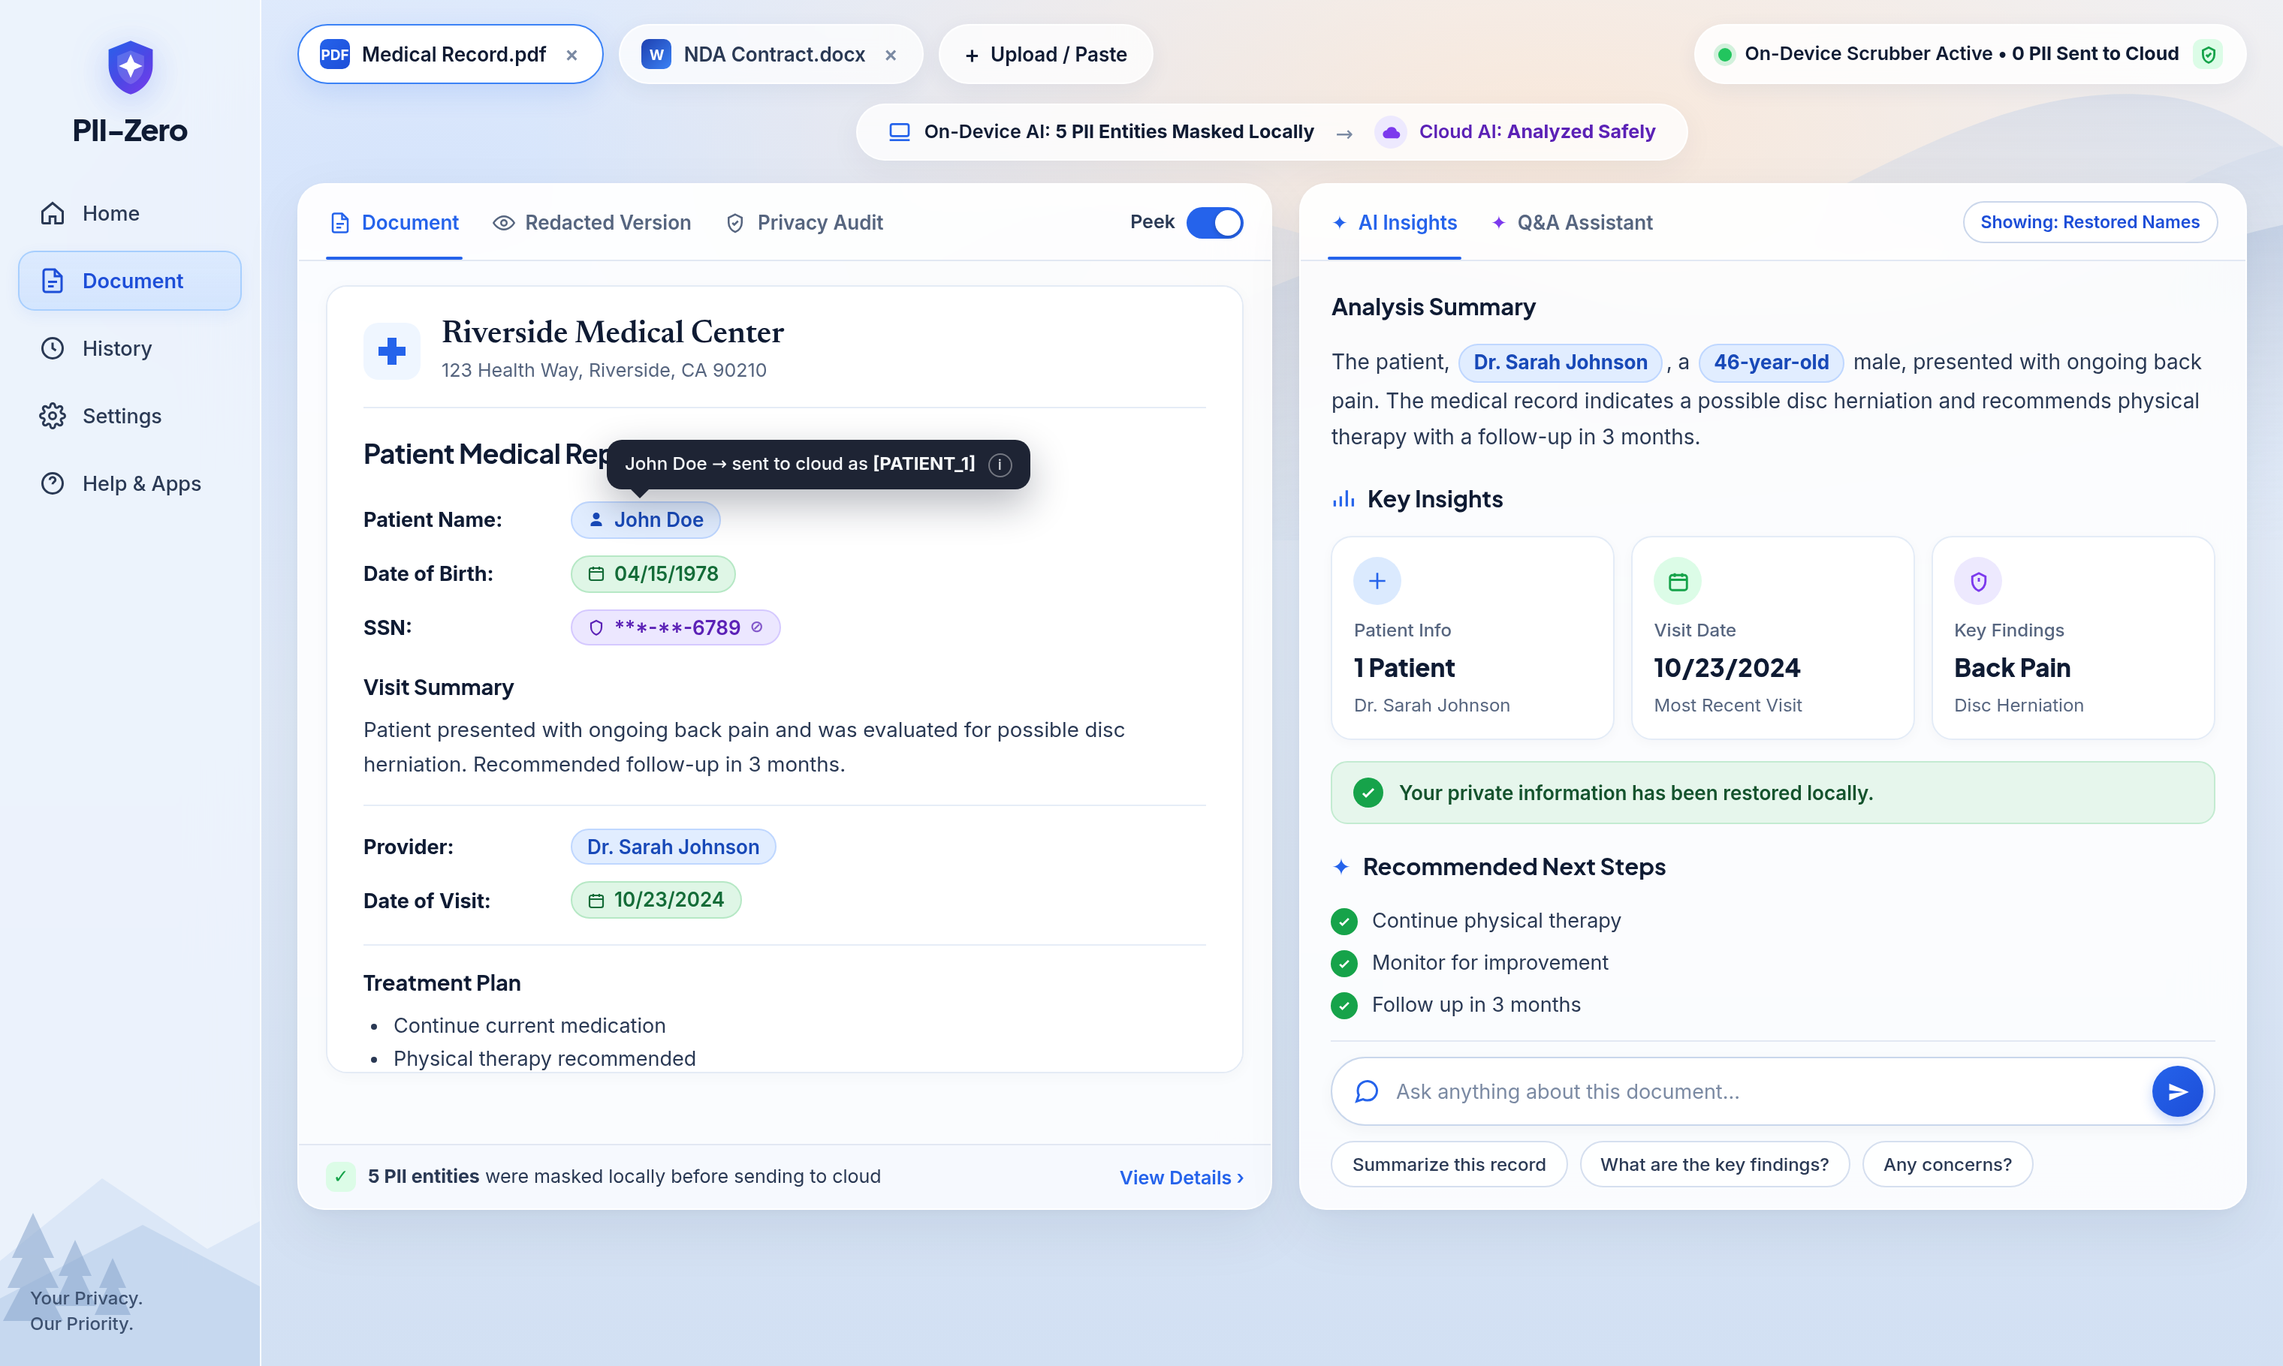
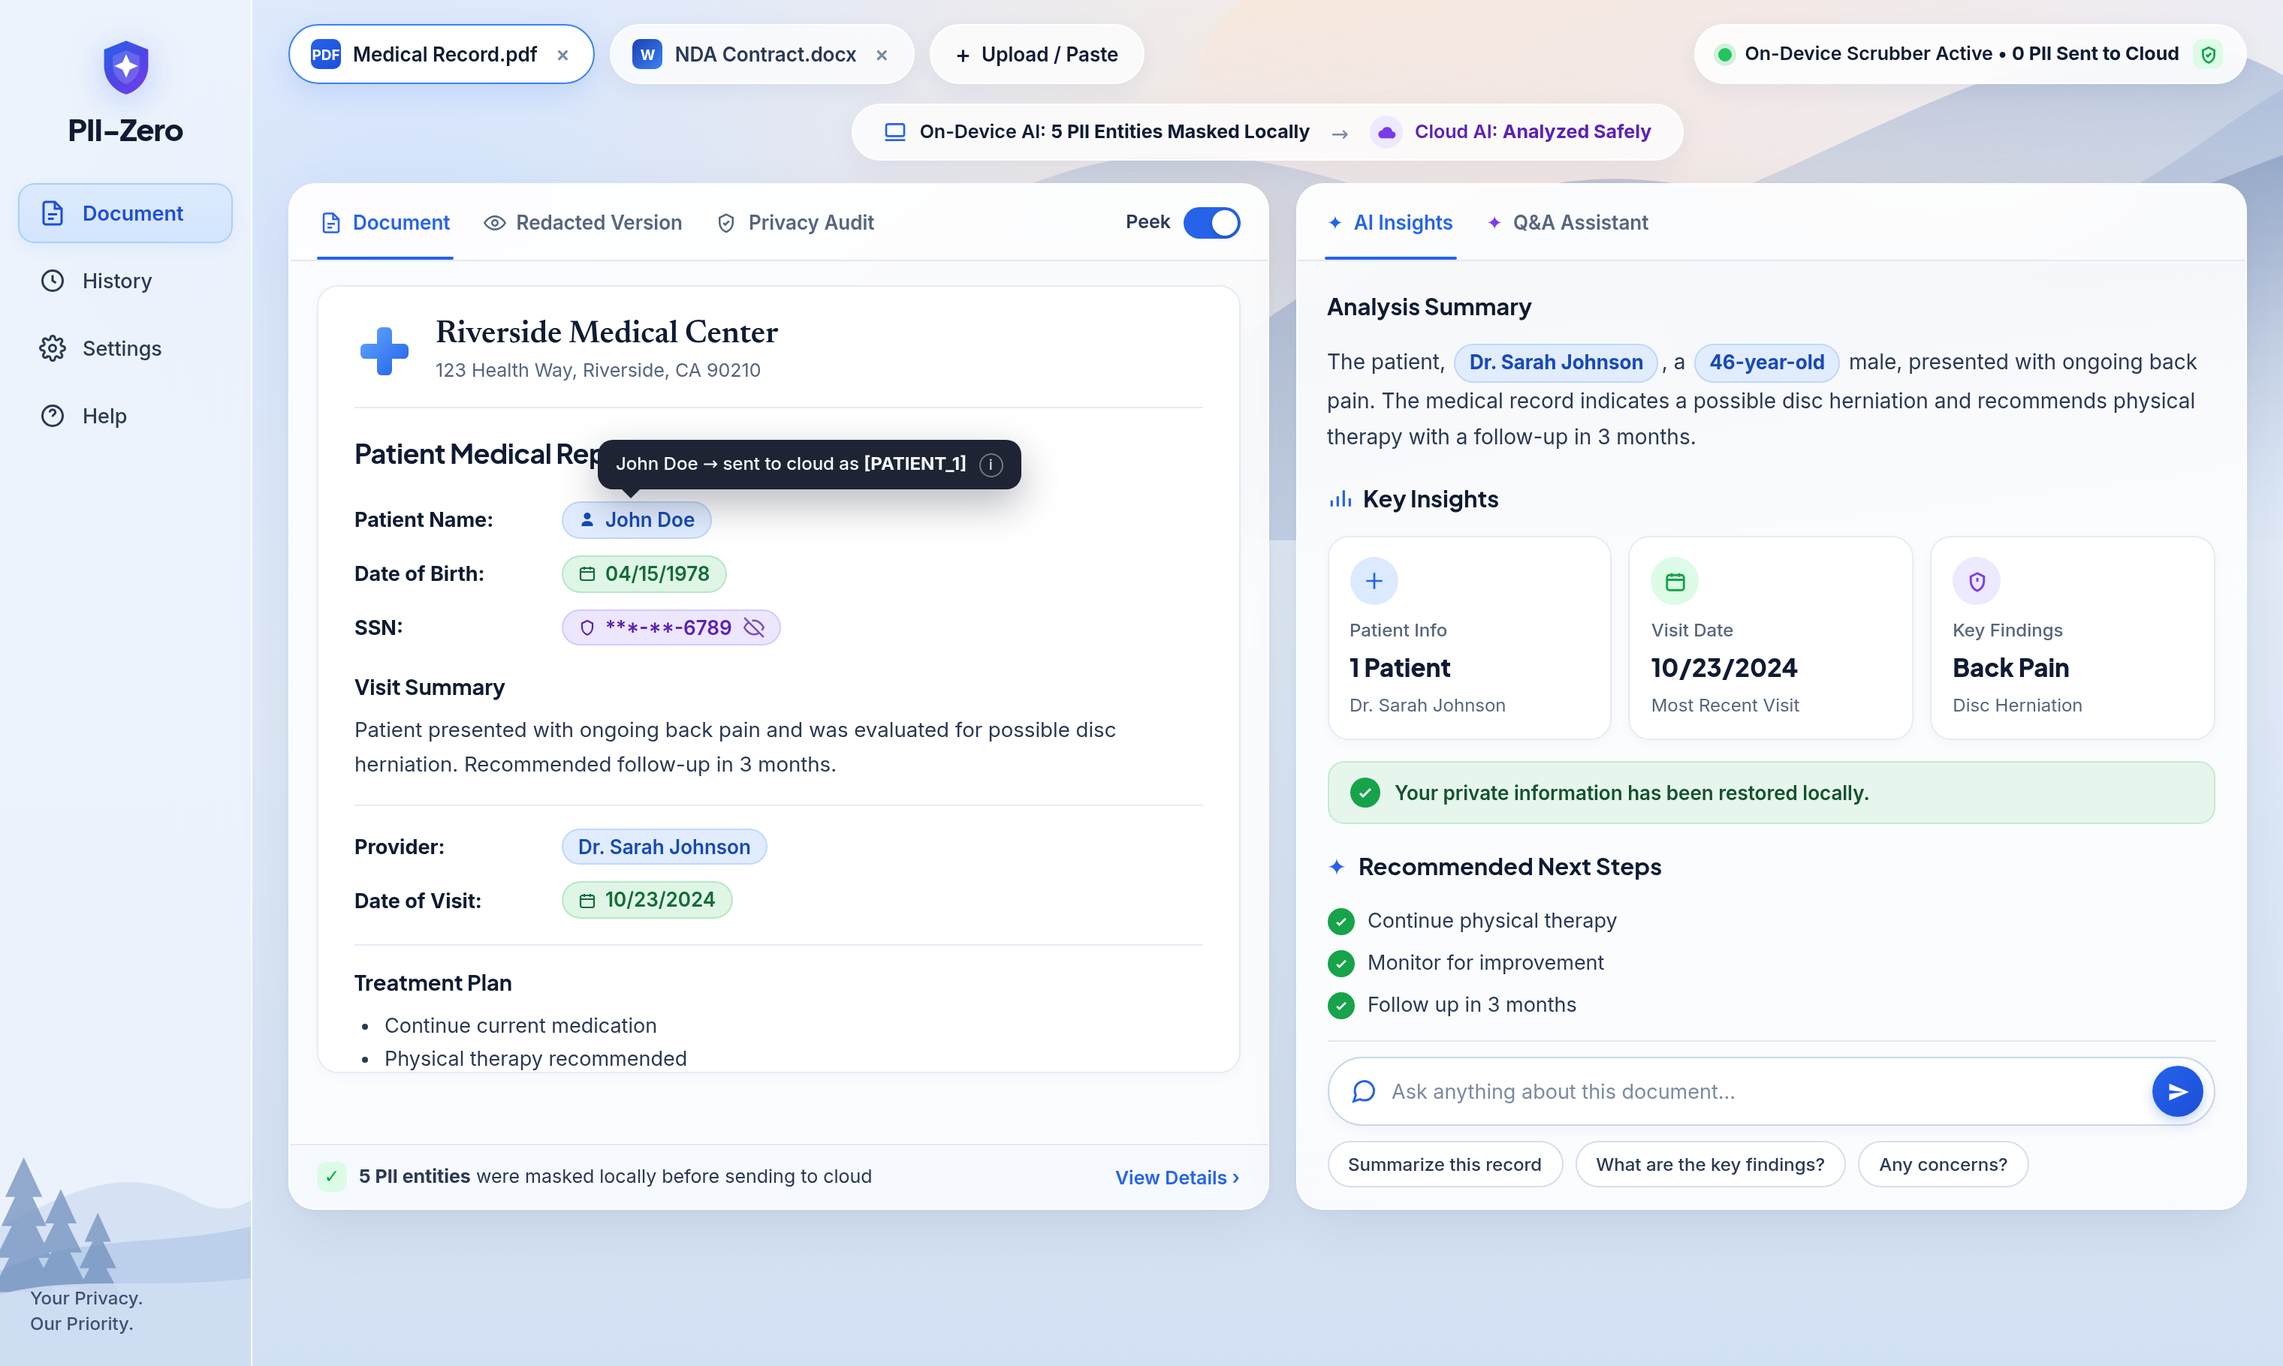
Keep 3-column mountain-glass workspace intact on Z Fold7 & disable HTML caching

diff --git a/src/App.tsx b/src/App.tsx
@@ -1027,9 +1027,20 @@ export const App: React.FC = () => {
             )}
             <span>{shownText}</span>
             {entry.category === "SSN" && (
-              <span style={{ opacity: 0.72, fontSize: "11px" }} aria-hidden="true">
-                ⊘
-              </span>
+              <svg
+                width="14"
+                height="14"
+                viewBox="0 0 24 24"
+                fill="none"
+                stroke="currentColor"
+                strokeWidth="2.1"
+                style={{ opacity: 0.78, marginLeft: "2px" }}
+                aria-hidden="true"
+              >
+                <path d="M17.94 17.94A10.07 10.07 0 0 1 12 20c-7 0-11-8-11-8a18.45 18.45 0 0 1 5.06-5.94" />
+                <path d="M9.9 4.24A9.12 9.12 0 0 1 12 4c7 0 11 8 11 8a18.5 18.5 0 0 1-2.16 3.19" />
+                <path d="M1 1l22 22" />
+              </svg>
             )}
           </span>
         </span>
@@ -1198,18 +1209,25 @@ export const App: React.FC = () => {
       <div className={mode === "redacted" ? "doc-paper compact" : "doc-paper"}>
         {currentDocMeta.showInstHeader && (
           <div className="doc-inst-header">
-            <div className="med-cross-icon" aria-hidden="true">
-              {currentDocMeta.isLegal ? (
+            {currentDocMeta.isLegal ? (
+              <div className="med-cross-icon" aria-hidden="true">
                 <svg width="22" height="22" viewBox="0 0 24 24" fill="none" stroke="currentColor" strokeWidth="2.1">
                   <path d="M14 2H6a2 2 0 0 0-2 2v16a2 2 0 0 0 2 2h12a2 2 0 0 0 2-2V8z" />
                   <path d="M14 2v6h6M9 13h6M9 17h4" />
                 </svg>
-              ) : (
-                <svg width="24" height="24" viewBox="0 0 24 24" fill="currentColor">
-                  <path d="M9 3h6v6h6v6h-6v6H9v-6H3V9h6V3z" />
-                </svg>
-              )}
-            </div>
+              </div>
+            ) : (
+              <svg width="40" height="40" viewBox="0 0 40 40" fill="none" aria-hidden="true" style={{ flexShrink: 0 }}>
+                <defs>
+                  <linearGradient id="medCrossBlue" x1="6" y1="6" x2="34" y2="34" gradientUnits="userSpaceOnUse">
+                    <stop offset="0%" stopColor="#60a5fa" />
+                    <stop offset="100%" stopColor="#2563eb" />
+                  </linearGradient>
+                </defs>
+                <rect x="15" y="4" width="10" height="32" rx="3.2" fill="url(#medCrossBlue)" />
+                <rect x="4" y="15" width="32" height="10" rx="3.2" fill="url(#medCrossBlue)" />
+              </svg>
+            )}
             <div>
               <div className="doc-inst-name">{currentDocMeta.instTitle}</div>
               <div className="doc-inst-sub">{currentDocMeta.instSub}</div>
@@ -1265,32 +1283,39 @@ export const App: React.FC = () => {
     <>
       {/* Smooth Atmospheric Mountain-Dawn SVG Backdrop */}
       <div className="mountain-backdrop" aria-hidden="true">
-        <svg viewBox="0 0 1440 420" preserveAspectRatio="none">
+        <svg viewBox="0 0 1600 440" preserveAspectRatio="none">
           <defs>
-            <linearGradient id="mtnBack" x1="0" y1="0" x2="0" y2="1">
-              <stop offset="0%" stopColor="#bdcde6" stopOpacity="0.52" />
-              <stop offset="100%" stopColor="#e4edf9" stopOpacity="0.04" />
+            <linearGradient id="dawnGlow" x1="0.45" y1="0" x2="0.95" y2="0.85">
+              <stop offset="0%" stopColor="#fde6d2" stopOpacity="0.88" />
+              <stop offset="55%" stopColor="#e8e6f6" stopOpacity="0.45" />
+              <stop offset="100%" stopColor="#dce8f8" stopOpacity="0" />
+            </linearGradient>
+            <linearGradient id="mtnFar" x1="0" y1="0" x2="0" y2="1">
+              <stop offset="0%" stopColor="#8da5cc" stopOpacity="0.68" />
+              <stop offset="100%" stopColor="#dbe6f6" stopOpacity="0.1" />
             </linearGradient>
             <linearGradient id="mtnMid" x1="0" y1="0" x2="1" y2="1">
-              <stop offset="0%" stopColor="#9eb6da" stopOpacity="0.48" />
+              <stop offset="0%" stopColor="#6984b3" stopOpacity="0.72" />
+              <stop offset="65%" stopColor="#93abd2" stopOpacity="0.42" />
               <stop offset="100%" stopColor="#d7e4f5" stopOpacity="0.06" />
             </linearGradient>
-            <linearGradient id="mtnFront" x1="0" y1="0" x2="0" y2="1">
-              <stop offset="0%" stopColor="#86a3ce" stopOpacity="0.38" />
-              <stop offset="100%" stopColor="#d3e0f3" stopOpacity="0.05" />
+            <linearGradient id="mtnNear" x1="0" y1="0" x2="0" y2="1">
+              <stop offset="0%" stopColor="#5673a4" stopOpacity="0.58" />
+              <stop offset="100%" stopColor="#cad9ef" stopOpacity="0.08" />
             </linearGradient>
           </defs>
+          <ellipse cx="1160" cy="65" rx="460" ry="175" fill="url(#dawnGlow)" />
           <path
-            d="M120,420 C290,300 410,165 560,158 C705,152 810,255 950,210 C1085,166 1185,62 1315,74 C1375,80 1415,120 1440,145 L1440,420 Z"
-            fill="url(#mtnBack)"
+            d="M160,440 C340,295 510,130 675,126 C835,122 930,228 1085,172 C1225,120 1355,24 1495,38 C1550,44 1580,72 1600,92 L1600,440 Z"
+            fill="url(#mtnFar)"
           />
           <path
-            d="M380,420 C535,320 665,195 805,192 C935,190 1015,278 1135,246 C1245,216 1345,112 1440,108 L1440,420 Z"
+            d="M520,440 C695,308 855,154 1015,146 C1155,139 1245,232 1375,186 C1475,150 1545,68 1600,58 L1600,440 Z"
             fill="url(#mtnMid)"
           />
           <path
-            d="M690,420 C835,338 960,245 1095,248 C1225,250 1335,185 1440,168 L1440,420 Z"
-            fill="url(#mtnFront)"
+            d="M840,440 C995,332 1145,208 1295,204 C1420,200 1515,138 1600,114 L1600,440 Z"
+            fill="url(#mtnNear)"
           />
         </svg>
       </div>
@@ -1302,24 +1327,14 @@ export const App: React.FC = () => {
             <button
               type="button"
               className="brand-lockup"
-              onClick={() => setSidebarNav("document")}
+              title="Toggle Workspace / Overview"
+              onClick={() => setSidebarNav((prev) => (prev === "document" ? "home" : "document"))}
             >
               <ShieldSparkleLogo />
               <span className="brand-wordmark">PII-Zero</span>
             </button>
 
             <nav className="sidebar-nav">
-              <button
-                type="button"
-                className={"sidebar-link " + (sidebarNav === "home" ? "active" : "")}
-                onClick={() => setSidebarNav("home")}
-              >
-                <svg viewBox="0 0 24 24" fill="none" stroke="currentColor" strokeWidth="2">
-                  <path d="M3 10.5L12 3l9 7.5V20a1 1 0 0 1-1 1h-5.5v-6h-5v6H4a1 1 0 0 1-1-1v-9.5z" />
-                </svg>
-                <span>Home</span>
-              </button>
-
               <button
                 type="button"
                 className={"sidebar-link " + (sidebarNav === "document" ? "active" : "")}
@@ -1351,7 +1366,7 @@ export const App: React.FC = () => {
               >
                 <svg viewBox="0 0 24 24" fill="none" stroke="currentColor" strokeWidth="2">
                   <circle cx="12" cy="12" r="3" />
-                  <path d="M19.4 15a1.7 1.7 0 0 0 .3 1.8l.1.1a2 2 0 1 1-2.8 2.8l-.1-.1a1.7 1.7 0 0 0-1.8-.3 1.7 1.7 0 0 0-1 1.5V21a2 2 0 1 1-4 0v-.2a1.7 1.7 0 0 0-1-1.5 1.7 1.7 0 0 0-1.8.3l-.1.1a2 2 0 1 1-2.8-2.8l.1-.1a1.7 1.7 0 0 0 .3-1.8 1.7 1.7 0 0 0-1.5-1H3a2 2 0 1 1 0-4h.2a1.7 1.7 0 0 0 1.5-1 1.7 1.7 0 0 0-.3-1.8l-.1-.1a2 2 0 1 1 2.8-2.8l.1.1a1.7 1.7 0 0 0 1.8.3h.1a1.7 1.7 0 0 0 1-1.5V3a2 2 0 1 1 4 0v.2a1.7 1.7 0 0 0 1 1.5 1.7 1.7 0 0 0 1.8-.3l.1-.1a2 2 0 1 1 2.8 2.8l-.1.1a1.7 1.7 0 0 0-.3 1.8v.1a1.7 1.7 0 0 0 1.5 1H21a2 2 0 1 1 0 4h-.2a1.7 1.7 0 0 0-1.4 1z" />
+                  <path d="M19.4 15a1.7 1.7 0 0 0 .3 1.8l.1.1a2 2 0 1 1-2.8 2.8l-.1-.1a1.7 1.7 0 0 0-1.8-.3 1.7 1.7 0 0 0-1 1.5V21a2 2 0 1 1-4 0v-.2a1.7 1.7 0 0 0-1-1.5 1.7 1.7 0 0 0-1.8.3l-.1-.1a2 2 0 1 1-2.8-2.8l.1-.1a1.7 1.7 0 0 0 .3-1.8 1.7 1.7 0 0 0-1.5-1H3a2 2 0 1 1 0-4h.2a1.7 1.7 0 0 0 1.5-1 1.7 1.7 0 0 0-.3-1.8l-.1-.1a2 2 0 1 1 2.8-2.8l.1.1a1.7 1.7 0 0 0 1.8.3h.1a1.7 1.7 0 0 0 1-1.5V3a2 2 0 1 1 4 0v.2a1.7 1.7 0 0 0 1 1.5 1.7 1.7 0 0 0 1.8-.3l.1-.1a2 2 0 1 1 2.8 2.8l-.1.1a1.7 1.7 0 0 0-.3 1.8v.1a1.7 1.7 0 0 0 1.5 1H21a2 2 0 1 1 0 4h-.2a1.7 1.7 0 0 0-1.4 1z" />
                 </svg>
                 <span>Settings</span>
               </button>
@@ -1365,23 +1380,27 @@ export const App: React.FC = () => {
                   <circle cx="12" cy="12" r="9" />
                   <path d="M9.5 9a2.5 2.5 0 0 1 5 0c0 1.6-2.5 2-2.5 3.8M12 17h.01" />
                 </svg>
-                <span>Help &amp; Apps</span>
+                <span>Help</span>
               </button>
             </nav>
           </div>
 
-          <svg className="sidebar-pine-art" viewBox="0 0 210 220" preserveAspectRatio="none" aria-hidden="true">
-            <path d="M0,150 L68,95 L138,142 L210,104 L210,220 L0,220 Z" fill="#ceddf2" opacity="0.65" />
-            <path d="M0,175 L95,126 L175,168 L210,148 L210,220 L0,220 Z" fill="#b7cde9" opacity="0.72" />
-            <g fill="#7c9cc6" opacity="0.58">
-              <polygon points="22,118 8,148 36,148" />
-              <polygon points="22,134 5,168 39,168" />
-              <polygon points="22,152 2,190 42,190" />
-              <polygon points="50,136 39,160 61,160" />
-              <polygon points="50,150 36,180 64,180" />
-              <polygon points="75,148 66,168 84,168" />
-              <polygon points="75,160 63,186 87,186" />
+          <svg className="sidebar-pine-art" viewBox="0 0 200 250" preserveAspectRatio="none" aria-hidden="true">
+            <path d="M0,145 C52,118 96,95 148,125 C172,138 188,126 200,118 L200,250 L0,250 Z" fill="#c7d8f0" opacity="0.72" />
+            <path d="M0,178 C64,148 122,162 200,142 L200,250 L0,250 Z" fill="#adc4e5" opacity="0.82" />
+            <g fill="#5b7fb2" opacity="0.74">
+              <polygon points="18,92 4,122 32,122" />
+              <polygon points="18,108 1,144 35,144" />
+              <polygon points="18,126 -3,168 39,168" />
+              <polygon points="18,146 -6,194 42,194" />
+              <polygon points="46,116 34,142 58,142" />
+              <polygon points="46,132 30,164 62,164" />
+              <polygon points="46,150 26,190 66,190" />
+              <polygon points="74,134 64,156 84,156" />
+              <polygon points="74,148 60,176 88,176" />
+              <polygon points="74,164 57,196 91,196" />
             </g>
+            <path d="M0,196 C55,180 125,194 200,182 L200,250 L0,250 Z" fill="#ceddf2" opacity="0.88" />
           </svg>
 
           <div className="sidebar-bottom">
@@ -1800,17 +1819,19 @@ export const App: React.FC = () => {
                     </button>
                   </div>
 
-                  <div className="tab-controls-right">
-                    <button
-                      type="button"
-                      className="btn-outline-pill"
-                      style={{ height: "28px", fontSize: "11.5px", padding: "0 11px" }}
-                      onClick={() => setRehydrateRight((v) => !v)}
-                      title="Toggle between locally restored names and raw [PII_*] tokens returned by Cloud AI"
-                    >
-                      {rehydrateRight ? "Showing: Restored Names" : "Showing: Cloud [PII_*]"}
-                    </button>
-                  </div>
+                  {rightTab === "qa" && (
+                    <div className="tab-controls-right">
+                      <button
+                        type="button"
+                        className="btn-outline-pill"
+                        style={{ height: "26px", fontSize: "11px", padding: "0 10px" }}
+                        onClick={() => setRehydrateRight((v) => !v)}
+                        title="Toggle between locally restored names and raw tokens returned by Cloud AI"
+                      >
+                        {rehydrateRight ? "Restored Names" : "Cloud Tokens"}
+                      </button>
+                    </div>
+                  )}
                 </div>
 
                 <div className="right-panel-body">

diff --git a/src/styles.css b/src/styles.css
@@ -107,10 +107,10 @@ body {
   z-index: 1;
   min-height: 100vh;
   display: grid;
-  grid-template-columns: 174px minmax(0, 1fr);
+  grid-template-columns: 168px minmax(0, 1fr);
 }
 
-@media (max-width: 860px) {
+@media (max-width: 579px) {
   .pz-app {
     grid-template-columns: 1fr;
   }
@@ -132,7 +132,38 @@ body {
   overflow: hidden;
 }
 
-@media (max-width: 860px) {
+/* Proportional Studio Scaling on Foldables (Z Fold7 ~690px) & Tablets so the full 3-column desktop design stays intact */
+@media (min-width: 580px) and (max-width: 759px) {
+  .pz-app {
+    zoom: 0.56;
+    min-height: 179vh;
+  }
+  .pz-sidebar {
+    height: 179vh;
+  }
+}
+
+@media (min-width: 760px) and (max-width: 959px) {
+  .pz-app {
+    zoom: 0.68;
+    min-height: 148vh;
+  }
+  .pz-sidebar {
+    height: 148vh;
+  }
+}
+
+@media (min-width: 960px) and (max-width: 1240px) {
+  .pz-app {
+    zoom: 0.84;
+    min-height: 120vh;
+  }
+  .pz-sidebar {
+    height: 120vh;
+  }
+}
+
+@media (max-width: 579px) {
   .pz-sidebar {
     position: sticky;
     top: 0;
@@ -157,7 +188,7 @@ body {
   z-index: 2;
 }
 
-@media (max-width: 860px) {
+@media (max-width: 579px) {
   .sidebar-top {
     flex-direction: row;
     align-items: center;
@@ -179,7 +210,7 @@ body {
   text-align: center;
 }
 
-@media (max-width: 860px) {
+@media (max-width: 579px) {
   .brand-lockup {
     flex-direction: row;
     gap: 8px;
@@ -194,7 +225,7 @@ body {
   filter: drop-shadow(0 5px 12px rgba(59, 98, 246, 0.28));
 }
 
-@media (max-width: 860px) {
+@media (max-width: 579px) {
   .brand-shield {
     width: 30px;
     height: 30px;
@@ -209,7 +240,7 @@ body {
   color: var(--ink-900);
 }
 
-@media (max-width: 860px) {
+@media (max-width: 579px) {
   .brand-wordmark {
     font-size: 17px;
   }
@@ -221,7 +252,7 @@ body {
   gap: 5px;
 }
 
-@media (max-width: 860px) {
+@media (max-width: 579px) {
   .sidebar-nav {
     flex-direction: row;
     align-items: center;
@@ -249,7 +280,7 @@ body {
   white-space: nowrap;
 }
 
-@media (max-width: 860px) {
+@media (max-width: 579px) {
   .sidebar-link {
     height: 32px;
     padding: 0 9px;
@@ -338,7 +369,7 @@ body {
   flex-wrap: wrap;
 }
 
-@media (max-width: 760px) {
+@media (max-width: 579px) {
   .doc-tabs-row {
     flex-wrap: nowrap;
     overflow-x: auto;
@@ -559,7 +590,7 @@ body {
   align-items: stretch;
 }
 
-@media (max-width: 820px) {
+@media (max-width: 579px) {
   .workspace-split {
     grid-template-columns: 1fr;
   }
@@ -578,7 +609,7 @@ body {
   overflow: hidden;
 }
 
-@media (max-width: 820px) {
+@media (max-width: 579px) {
   .glass-panel {
     min-height: auto;
   }
@@ -713,7 +744,7 @@ body {
   max-height: 295px;
 }
 
-@media (max-width: 820px) {
+@media (max-width: 579px) {
   .doc-paper,
   .doc-paper.compact {
     max-height: none;
@@ -890,7 +921,7 @@ body {
   pointer-events: none;
 }
 
-@media (max-width: 640px) {
+@media (max-width: 579px) {
   .peek-tooltip {
     left: -92px;
     white-space: normal;
@@ -910,7 +941,7 @@ body {
   border-color: #1e2434 transparent transparent transparent;
 }
 
-@media (max-width: 640px) {
+@media (max-width: 579px) {
   .peek-tooltip::after {
     left: 108px;
   }
